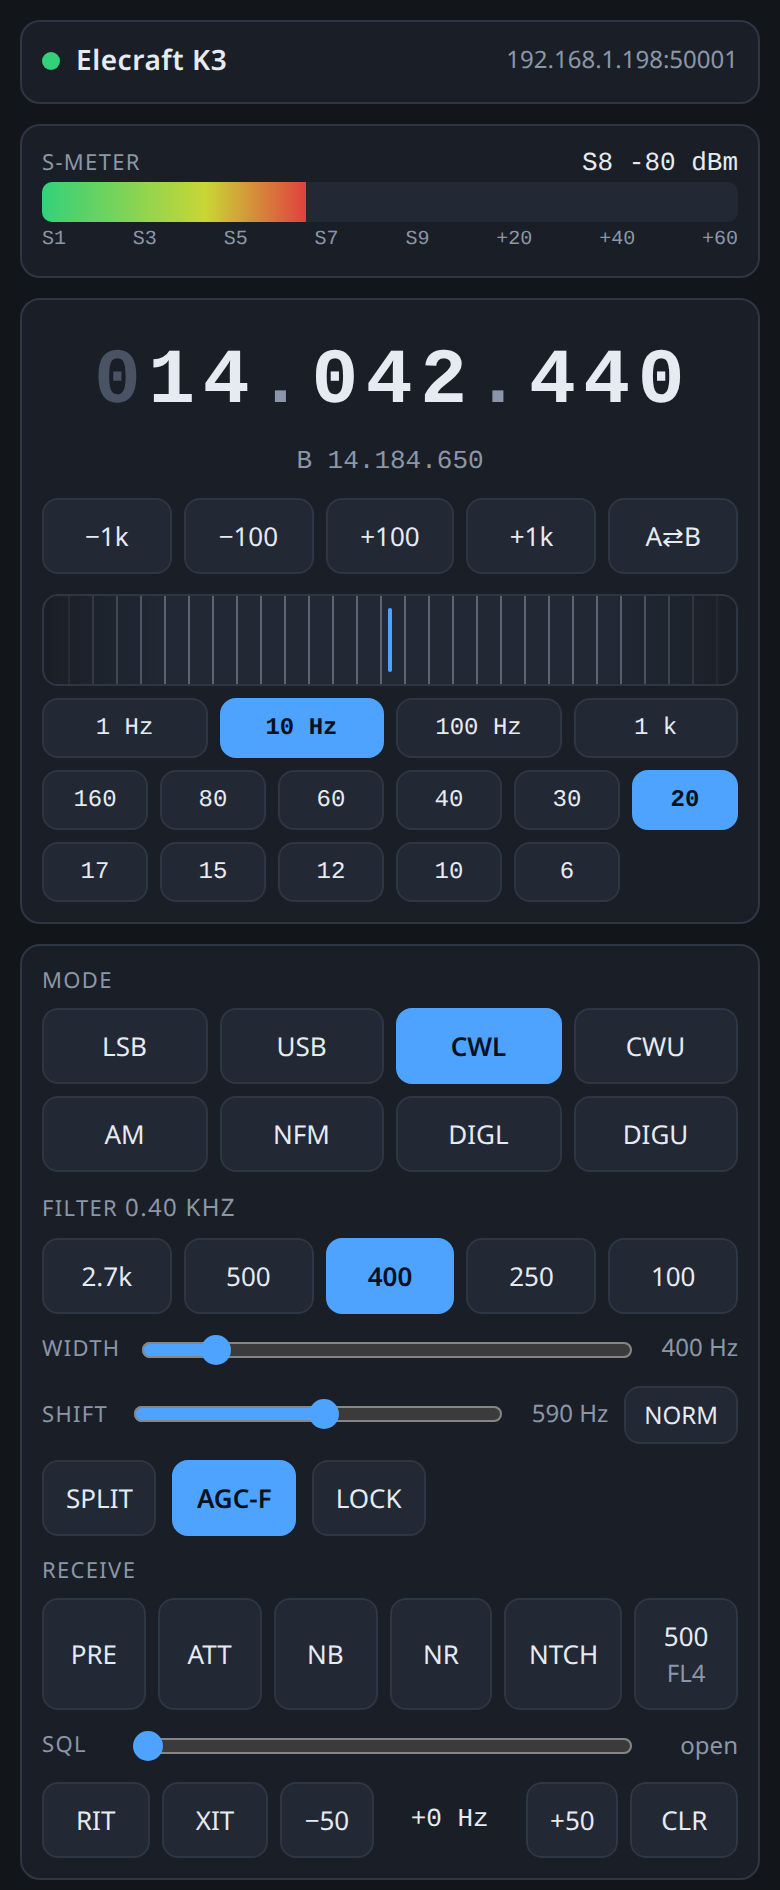
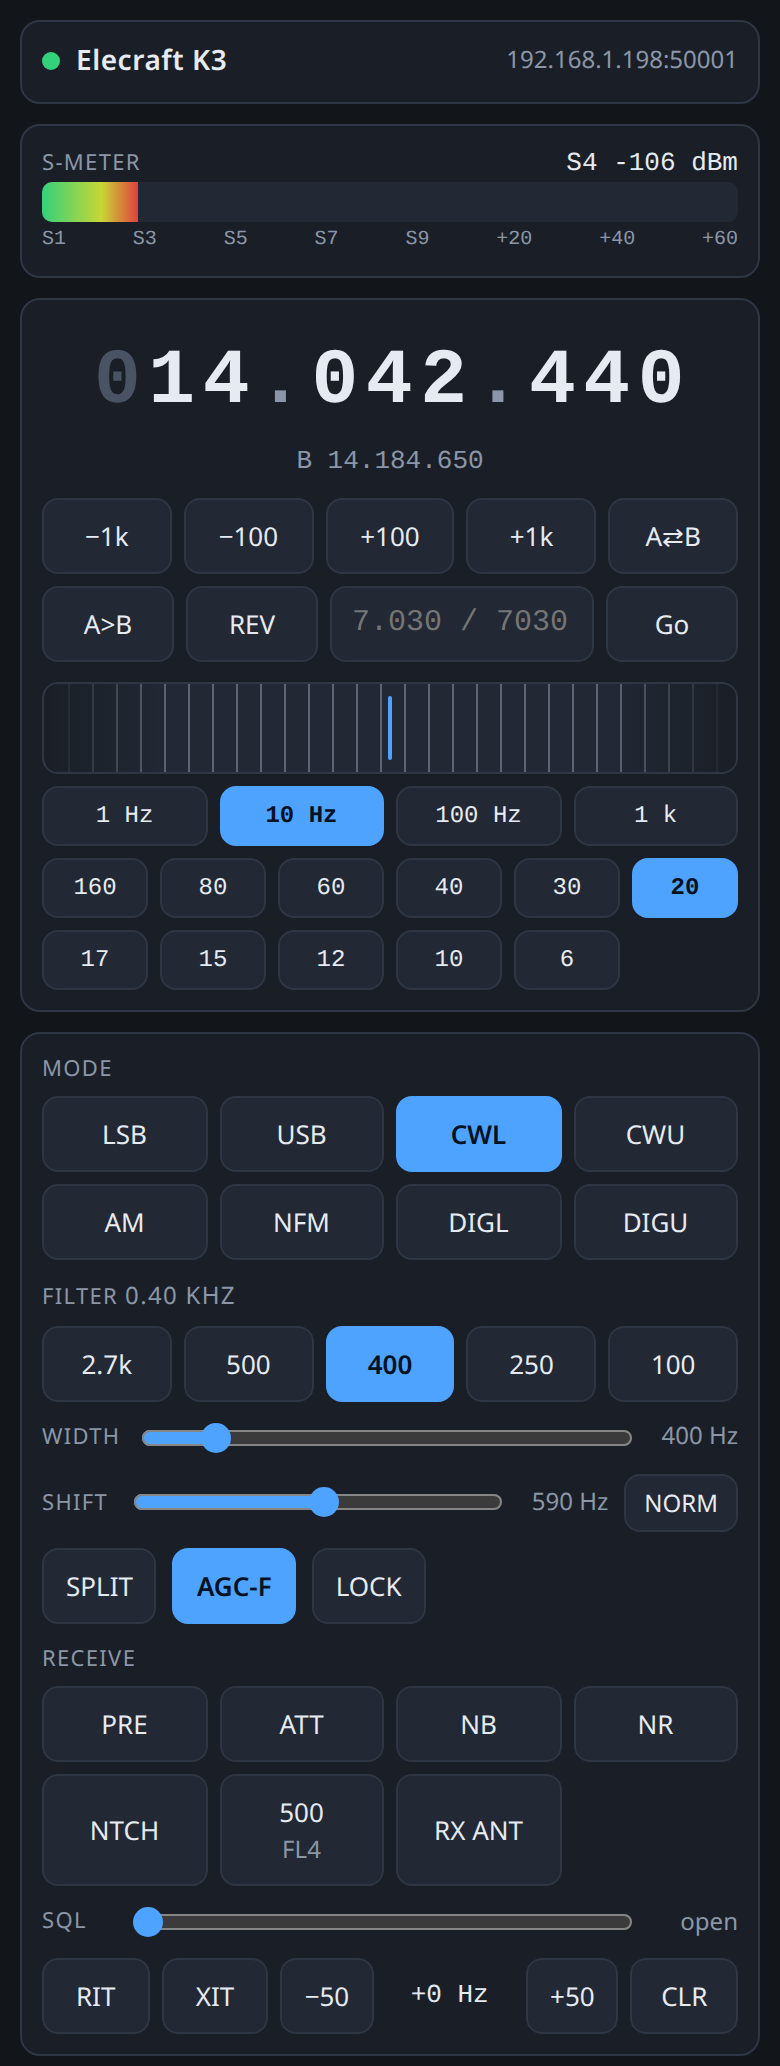
Add A>B, hold-to-listen REV, typed frequency entry and RX ANT
A>B taps the radio's own switch (SWT13); measured, FB takes FA. RX ANT
is AR0/AR1 and re-reads PA and RA, which the radio stores per RX ANT
state; trimming the other re-reads took it from 1.4-1.9 s to ~0.8 s.
REV's switch changes nothing CAT can see, so the page's REV is a
press-and-hold swap of A and B, put back on release, blur or hide.
Typed frequencies take MHz (7.030, 7) or kHz (7030) and are bounded to
the radio's range. Screenshots retaken.

diff --git a/bridge/ui.html b/bridge/ui.html
@@ -70,11 +70,17 @@ h1{font-size:14px; margin:0; font-weight:600; letter-spacing:.02em}
 #wheel.live{border-color:var(--accent)}
 /* LOCK: the radio's lock does not stop CAT (measured), so the page stops
    itself, and shows that it has. */
-.locked #freq, .locked #wheel, .locked #wrate, .locked .steps, .locked #bands{
+.locked #freq, .locked #wheel, .locked #wrate, .locked .steps, .locked #bands, .locked #vforow{
   opacity:.4; cursor:not-allowed}
 #wheel.live #ticks{opacity:.9}
 #wrate{display:grid; grid-template-columns:repeat(4,1fr); gap:6px; margin-top:6px}
 #wrate button{padding:7px 4px; font-size:12px; font-family:var(--mono)}
+#vforow{display:grid; grid-template-columns:1fr 1fr 2fr 1fr; gap:6px; margin-top:6px}
+#fent{background:var(--panel2); color:var(--ink); border:1px solid var(--line);
+  border-radius:8px; padding:0 10px; font-family:var(--mono); font-size:15px; min-width:0}
+#fent.bad{border-color:var(--off)}
+/* Held, not tapped: no long-press menu or text selection under the finger. */
+#rev{touch-action:none; -webkit-touch-callout:none}
 #bands{display:grid; grid-template-columns:repeat(6,1fr); gap:6px; margin-top:6px}
 #bands button{padding:7px 0; font-size:12px; font-family:var(--mono)}
 
@@ -158,6 +164,12 @@ input[type=range]{width:100%; accent-color:var(--accent)}
     <button data-step="1000">+1k</button>
     <button id="ab">A⇄B</button>
   </div>
+  <div id="vforow">
+    <button id="abcopy" title="Copy VFO A to VFO B, as A&gt;B does on the radio">A&gt;B</button>
+    <button id="rev" title="Hold to listen on VFO B">REV</button>
+    <input id="fent" inputmode="decimal" autocomplete="off" placeholder="7.030 / 7030">
+    <button id="fgo">Go</button>
+  </div>
   <div id="wheel"><div id="ticks"></div><div class="mark"></div></div>
   <div id="wrate"></div>
   <div id="bands"></div>
@@ -187,13 +199,14 @@ input[type=range]{width:100%; accent-color:var(--accent)}
     <span class="sub" id="ifinfo"></span>
   </div>
   <div class="lbl" style="margin:10px 0 6px">Receive</div>
-  <div class="steps" style="grid-template-columns:repeat(6,1fr)">
+  <div class="steps" style="grid-template-columns:repeat(4,1fr)">
     <button id="pre">PRE</button>
     <button id="att">ATT</button>
     <button id="nb">NB</button>
     <button id="nr" title="Presses NR on the radio">NR</button>
     <button id="ntch" title="Presses NTCH on the radio, which cycles it">NTCH</button>
     <button id="xfil" title="Presses XFIL on the radio: next crystal filter">XFIL</button>
+    <button id="rxant" title="Receive on the RX ANT input">RX ANT</button>
   </div>
   <div id="nbhint"></div>
   <div class="row" style="margin-top:8px">
@@ -314,7 +327,7 @@ const HOST = location.host || "192.168.1.198:50001";
 const S = { mode:"", vfoA:0, vfoB:0, split:false, agc:"",
             pre:false, att:false, nb:false, nbLevels:[0,0], nr:false, notch:"off",
             rit:false, xit:false, ritOffset:0,
-            sqlOn:false, sqlLevel:0, lock:false, xfil:0, tx:false, audio:false,
+            sqlOn:false, sqlLevel:0, lock:false, xfil:0, rxAnt:false, tx:false, audio:false,
             ready:false, flo:0, fhi:0, txLevel:0, txSeen:0,
             decoded:false, meterSeen:0, msgSeen:0, askedAudio:0 };
 const $ = s => document.querySelector(s);
@@ -411,6 +424,7 @@ function onText(msg){
     case "attenuator":  S.att = args[1] === "true"; paintRx(); break;
     case "rx_nb_enable": S.nb = args[1] === "true"; paintRx(); break;
     case "rx_nr_enable": S.nr = args[1] === "true"; paintRx(); break;
+    case "rx_ant":      S.rxAnt = args[1] === "true"; paintRx(); break;
     case "if_shift":    S.ifc = +args[1] || 0; paintShift(); break;
     case "xfil":        S.xfil = +args[1] || 0; S.xfilHz = +args[2] || 0; paintRx(); break;
     case "notch":       S.notch = args[1] || "off"; paintRx(); break;
@@ -726,6 +740,59 @@ $("#declear").onclick = decodeIdle;
 
 document.querySelectorAll("[data-step]").forEach(b =>
   b.onclick = () => step(+b.dataset.step));
+// ── A>B, REV, frequency entry ─────────────────────────────────────────────
+$("#abcopy").onclick = () => { if (!S.lock) send("ab_copy:0"); };
+
+// REV, held. The radio's own REV (SWT12) changes nothing CAT can see, so
+// its state could not be shown here (measured; see tci._cmd_ab_copy). This
+// does what REV is for instead: while held, A and B swap, so you listen on
+// B; on release they swap back to exactly what they were. Frequencies
+// only -- modes stay put, which is right for same-mode split work.
+let revHeld = null;                             // [a, b] while held
+function revDown(e){
+  if (revHeld || S.lock || S.tx || !S.vfoB) return;
+  e.preventDefault();
+  try { $("#rev").setPointerCapture(e.pointerId); } catch (err) {}
+  revHeld = [S.vfoA, S.vfoB];
+  send(`vfo:0,0,${revHeld[1]}`); send(`vfo:0,1,${revHeld[0]}`);
+  $("#rev").classList.add("on");
+}
+function revUp(){
+  if (!revHeld) return;
+  const [a, b] = revHeld; revHeld = null;
+  send(`vfo:0,0,${a}`); send(`vfo:0,1,${b}`);
+  $("#rev").classList.remove("on");
+}
+$("#rev").addEventListener("pointerdown", revDown);
+["pointerup", "pointercancel", "lostpointercapture"].forEach(t =>
+  $("#rev").addEventListener(t, revUp));
+// A hold that outlives the page's attention must not leave A and B swapped.
+window.addEventListener("blur", revUp);
+document.addEventListener("visibilitychange", revUp);
+
+// Typed frequency. With a point, under 100 is MHz ("7.030", "14.074") and
+// anything larger is kHz; without one, under 100 is MHz ("7"), under
+// 100000 is kHz ("7030", "14074"), and the rest is Hz. The radio's range
+// (vfo_limits) bounds it; anything outside flags the box rather than
+// sending.
+function parseFreq(t){
+  t = t.replace(/[\s,]/g, "");
+  if (!/^\d+(\.\d*)?$/.test(t)) return null;
+  const v = parseFloat(t);
+  const hz = v < 100 ? v * 1e6 : (t.includes(".") || v < 100000) ? v * 1e3 : v;
+  const r = Math.round(hz);
+  return r >= 100000 && r <= 54000000 ? r : null;
+}
+function enterFreq(){
+  const el = $("#fent"), hz = parseFreq(el.value);
+  if (hz === null || S.lock){ el.classList.add("bad"); return; }
+  el.classList.remove("bad"); el.value = ""; el.blur();
+  S.vfoA = hz; drawFreq(); holdFreq(); sendVfo();
+}
+$("#fgo").onclick = enterFreq;
+$("#fent").addEventListener("keydown", e => { if (e.key === "Enter") enterFreq(); });
+$("#fent").addEventListener("input", e => e.target.classList.remove("bad"));
+
 $("#ab").onclick = () => { if (S.lock) return; const a = S.vfoA; send(`vfo:0,0,${S.vfoB}`); send(`vfo:0,1,${a}`); };
 
 // ── modes ─────────────────────────────────────────────────────────────────
@@ -757,6 +824,7 @@ $("#nb").onclick  = () => send(`rx_nb_enable:0,${!S.nb}`);
 $("#nr").onclick   = () => send("nr_tap:0");
 $("#ntch").onclick = () => send("notch_tap:0");
 $("#xfil").onclick = () => send("xfil_tap:0");
+$("#rxant").onclick = () => send(`rx_ant:0,${!S.rxAnt}`);
 // Squelch in the radio's own steps, 0-29, where 0 is open. The wire is
 // TCI's 0-100, so the slider converts both ways; the steps are 3.4 apart,
 // so the round trip lands back on the same one.
@@ -788,6 +856,7 @@ function paintRx(){
   $("#att").classList.toggle("on", S.att);
   $("#nb").classList.toggle("on", S.nb);
   $("#nr").classList.toggle("on", S.nr);
+  $("#rxant").classList.toggle("on", S.rxAnt);
   $("#ntch").classList.toggle("on", S.notch !== "off");
   $("#ntch").textContent = S.notch === "manual" ? "NTCH-M" : "NTCH";
   // Not a switch with an off, so never lit: it names the crystal in use.

diff --git a/bridge/tci.py b/bridge/tci.py
@@ -175,6 +175,7 @@ class RadioState:
         self.sql_on = False         # SQ000 is open: there is no on/off
         self.lock = False           # VFO A lock
         self.xfil = 0               # crystal filter FL1-FL5; 0 = not read yet
+        self.rx_ant = False         # AR: the separate receive antenna
         self.notch = "off"          # off / auto / manual, likewise
 
 
@@ -243,6 +244,7 @@ class Bridge:
         self.refresh_display()
         self.refresh_xfil()
         self.refresh_sql_lock()
+        self.refresh_rx_ant()
         log.info("primed: A=%d B=%d mode=%s split=%s",
                  self.state.vfo_a, self.state.vfo_b,
                  self.state.mode, self.state.split)
@@ -392,6 +394,7 @@ class Bridge:
             *self.display_notifications(),
             self.xfil_notification(),
             *self.sql_lock_notifications(),
+            f"rx_ant:0,{bool_str(s.rx_ant)}",
             # The bridge's own message, like rx_text; other TCI clients
             # ignore what they do not know. name/low/high per band.
             "band_plan:" + ",".join(f"{n}/{lo}/{hi}" for n, (_, lo, hi, _)
@@ -1544,6 +1547,48 @@ class Bridge:
         return [], [self.xfil_notification(),
                     *self.filter_notifications()]
 
+    # -- A>B and RX ANT ----------------------------------------------------
+    # A>B is the radio's own switch (SWT13) rather than an FB write, so it
+    # copies whatever the radio's A>B copies. Measured: FB takes FA.
+    #
+    # RX ANT has a real GET/SET, AR0/AR1. The preamp and attenuator are
+    # stored per RX ANT state (programmer's reference, PA and RA notes), so
+    # both are re-read and re-broadcast when it changes.
+    #
+    # REV is not here: a SWT12 tap changed nothing CAT can see (FA, FB, IF
+    # all unmoved, measured), so its state would be invisible. The web UI's
+    # REV is a hold-to-listen swap of A and B through `vfo` instead.
+
+    def _cmd_ab_copy(self, args):
+        if self.state.transmitting:
+            return [], []
+        self.cat.send("SWT13")
+        time.sleep(0.3)
+        self.refresh_vfo()
+        s = self.state
+        return [], [f"vfo:0,0,{s.vfo_a}", f"vfo:0,1,{s.vfo_b}"]
+
+    def refresh_rx_ant(self) -> None:
+        r = self.cat.ask("AR")
+        if r and r.startswith("AR") and len(r) >= 3 and r[2] in "01":
+            self.state.rx_ant = r[2] == "1"
+
+    def _cmd_rx_ant(self, args):
+        if len(args) >= 2 and args[1].lower() in ("true", "false"):
+            cmd = "AR1" if args[1].lower() == "true" else "AR0"
+            if self.cat.set_verified(cmd, "AR", cmd + ";"):
+                self.state.rx_ant = cmd == "AR1"
+            else:
+                self.refresh_rx_ant()
+            # Only PA and RA follow the RX ANT state; NB and NL do not, and
+            # every read here is time the button waits (1.4-1.9 s measured
+            # with all four).
+            for q in ("PA", "RA"):
+                self._parse_frontend(self.cat.ask(q))
+            return [], [f"rx_ant:0,{bool_str(self.state.rx_ant)}",
+                        *self.rx_frontend_notifications()]
+        return [f"rx_ant:0,{bool_str(self.state.rx_ant)}"], []
+
     def _cmd_nr_tap(self, args):
         return self._tap(34)
 
@@ -1858,6 +1903,9 @@ class Bridge:
                 s.vfo_b = int(msg[2:13]); out.append(f"vfo:0,1,{s.vfo_b}")
             except ValueError:
                 pass
+        elif msg.startswith("AR") and len(msg) >= 3 and msg[2] in "01":
+            s.rx_ant = msg[2] == "1"
+            out.append(f"rx_ant:0,{bool_str(s.rx_ant)}")
         elif msg[:2] in ("SQ", "LK") and self._parse_sql_lock(msg):
             # Not known to be reported by AI2; handled in case they are.
             out += self.sql_lock_notifications()

diff --git a/k3-tci-command-map.md b/k3-tci-command-map.md
@@ -479,6 +479,9 @@ slow and cite the caution above.
 | `preamp:0,<bool>` (bridge's own) | `PA1;` / `PA0;` | `PA;` | — | Reported on band change and by AI2 |
 | `attenuator:0,<bool>` (bridge's own) | `RA01;` / `RA00;` | `RA;` | — | One 10 dB pad on this K3 |
 | `if_shift:0,<Hz>` / `if_shift:0,norm` (bridge's own) | `IS <4 digits>;` / `IS 9999;` | `IS;` | Hz, the AF centre | SHIFT, in the radio's own terms. Broadcast with every `rx_filter_band`, because in CW the TCI edges are always `±half` and cannot show a shift. Measured clamps: CW 100-1050, NORM = PITCH (590 here); USB with 2.4k width 400-2600, NORM 1500, the edges moving with it (400 → -800..1600). AM/FM not measured; the web UI disables SHIFT there |
+| `ab_copy:0` (bridge's own) | `SWT13;` | `FA;`/`FB;` | — | A>B, the radio's own switch. Measured: `FB` takes `FA` |
+| `rx_ant:0,<bool>` (bridge's own) | `AR1;` / `AR0;` | `AR;` | — | Re-reads `PA` and `RA`, which are stored per RX ANT state. ~0.8 s to confirm (1.4-1.9 s when it also re-read `NB`/`NL`) |
+| REV | **none usable** | — | — | `SWT12` changed nothing CAT can see — `FA`, `FB`, `IF` unmoved after a tap (measured), so its state is invisible, and the reference warns REV is a limited-access state that can answer `?;`. The web UI's REV is a press-and-hold swap of A and B through `vfo`, restored on release |
 | `xfil_tap:0` (bridge's own) | `SWT29;` | `XF;`, then `BW;`/`IS;` | `XFn` = FL1-FL5 | Broadcast as `xfil:0,<n>,<Hz>` plus `rx_filter_band`; the width is from `tci.XFIL_WIDTHS` (this station: FL3 2.7k, FL4 500, FL5 250), because CAT cannot report what is fitted. **Each crystal resets the DSP width to suit itself** (measured in CW: FL4 400 Hz → FL5 250 → FL3 2700 → FL4 500, not back to 400). In CW the tap cycles FL4 → FL5 → FL3 only. AI2 reports no `XF`; the reconcile sweep reads it. **The reverse holds too: a `BW` change picks the narrowest crystal at least as wide** (measured in CW: 2700 and 1000 → FL3; 500, 400, 300 → FL4; 250, 100 → FL5), so the web UI's width slider drives the crystal and XFIL is an override |
 | `nr_tap:0` / `notch_tap:0` (bridge's own) | `SWT34;` / `SWT32;` | `DS;` byte `f` | — | No NR or notch command exists, so these press the switch; the result is read back and broadcast as `rx_nr_enable` (TCI's) and `notch:0,off\|auto\|manual` (the bridge's own). AI2 reports neither, so front-panel presses arrive via the 3 s reconcile sweep. Refused while transmitting |
 | `rx_nb_param:0,0,<0-100>` | `NL<dd><ii>;` | `NL;` | scale to 00-21 each | `dd` = DSP NB level, `ii` = IF NB level |

diff --git a/README.md b/README.md
@@ -11,7 +11,7 @@ BAND, AGC, PRE/ATT, NB, NR, NTCH, RIT/XIT.*
 
 <table>
 <tr>
-<td><img src="screenshots/web-ui-top.png" alt="Web UI, top: S-meter, frequency with tuning strip and band buttons, mode, filter presets, width and SHIFT sliders, AGC, lock, preamp, attenuator, NB, NR, notch, crystal filter, squelch and RIT/XIT" width="320"></td>
+<td><img src="screenshots/web-ui-top.png" alt="Web UI, top: S-meter, frequency with A>B, hold-to-listen REV, typed entry, tuning strip and band buttons, mode, filter presets, width and SHIFT sliders, AGC, lock, preamp, attenuator, NB, NR, notch, crystal filter, RX antenna, squelch and RIT/XIT" width="320"></td>
 <td><img src="screenshots/web-ui-bottom.png" alt="Web UI, bottom: decoded text, CW keyer with macros, audio and power, TX audio meters, PTT and log" width="320"></td>
 </tr>
 </table>
